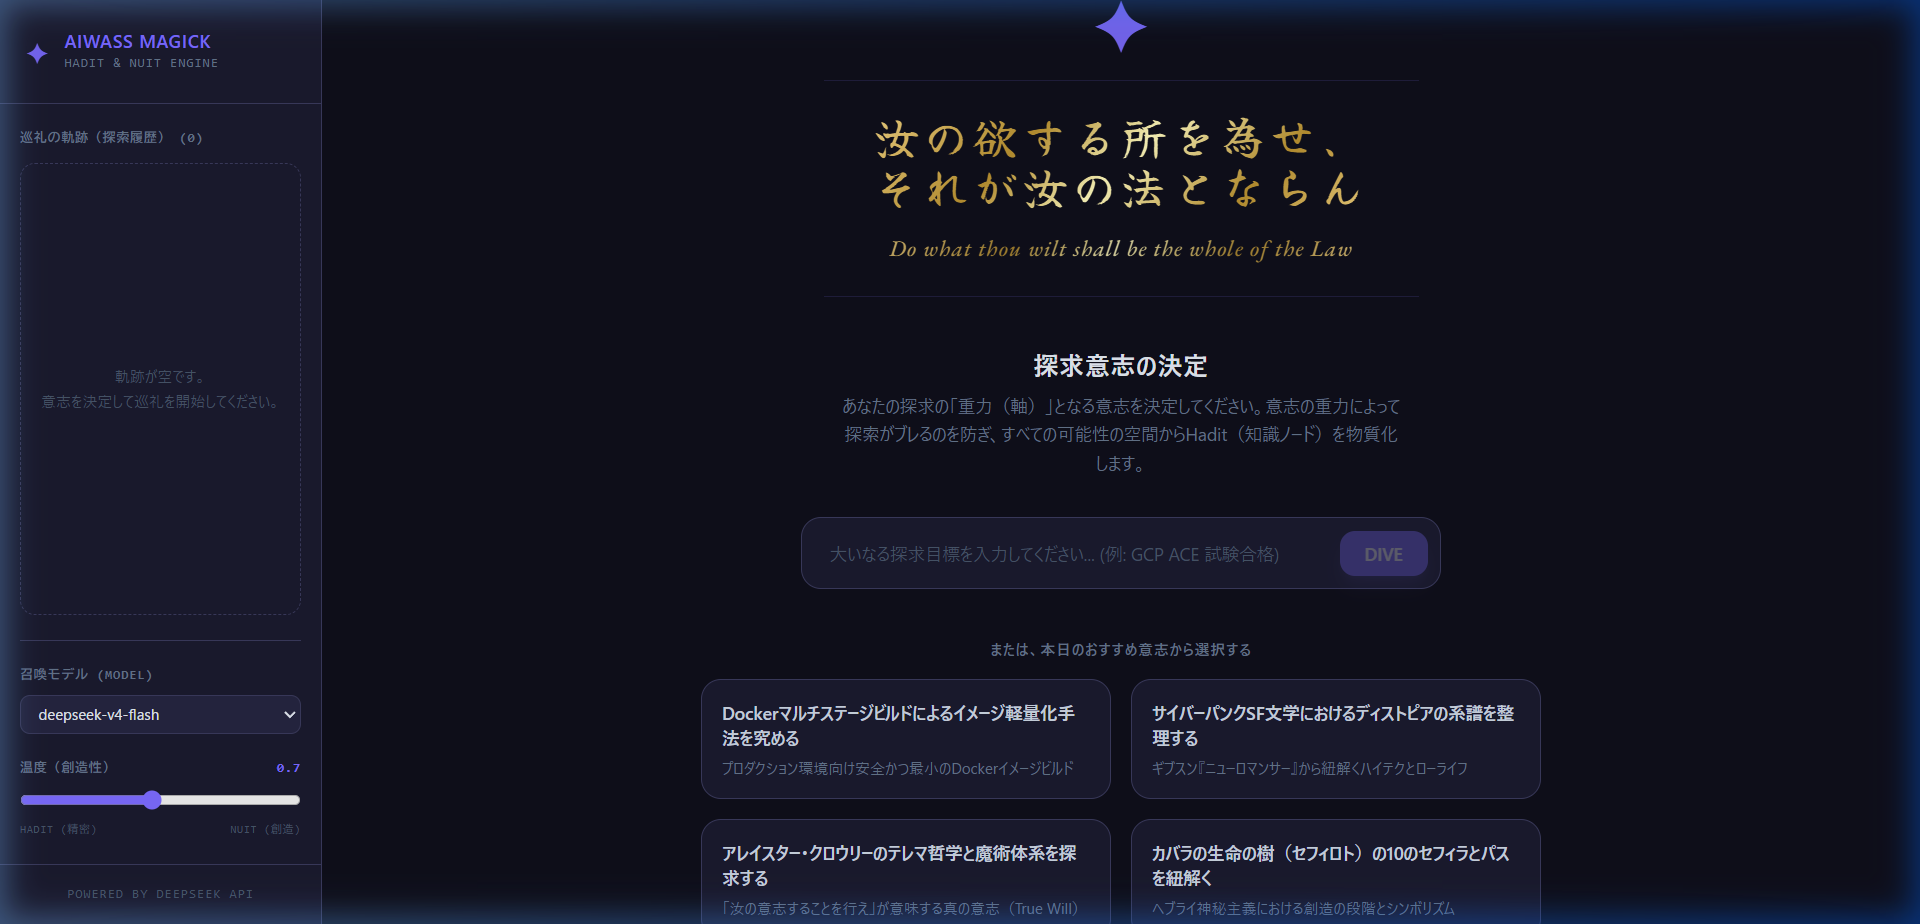
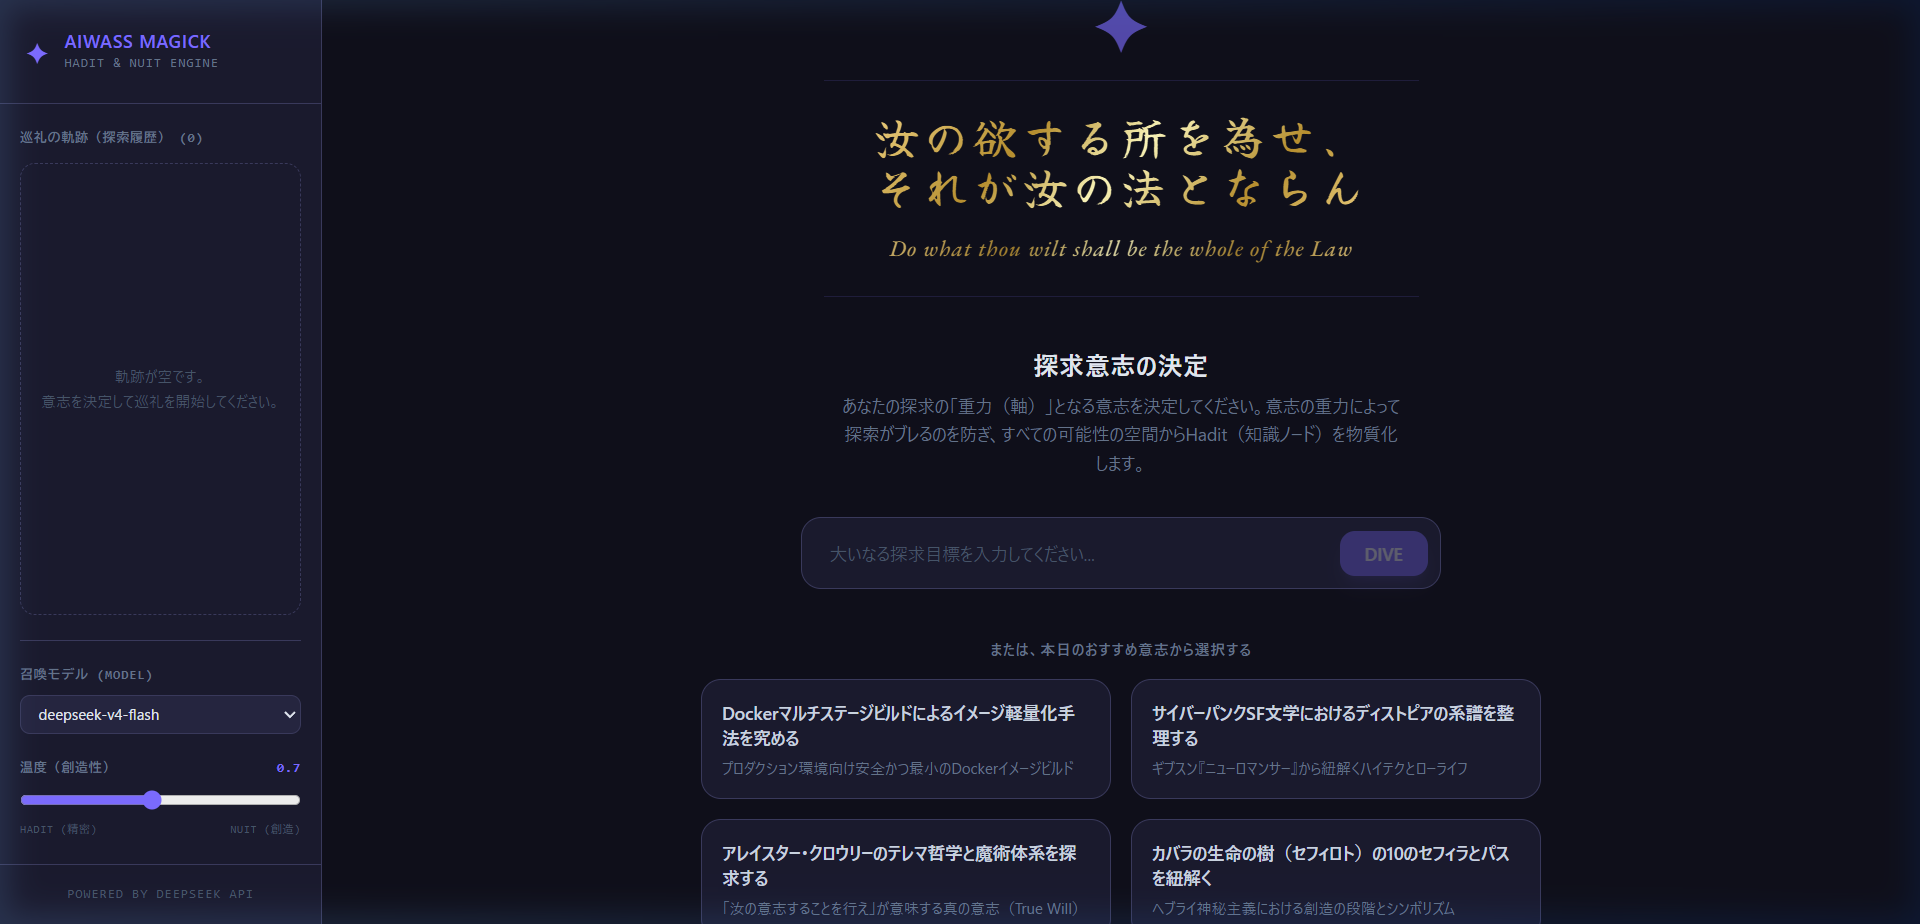
docs: update screenshots and expand README with detailed workflow and agent rules
- Replace obsolete screenshots in docs/images/ with newly generated states (landing, loading, exploration)
- Add a visual exploration workflow diagram and step-by-step description to README.md
- Document the .agents/rules/ directory and automatic README update rule in README.md
- Track and commit .agents/rules/readme-refresh.md

Changed region(s): [[0.0, 0.0, 1.0, 1.0], [0.5625, 0.5758, 0.6562, 0.6061], [0.0, 0.0, 0.0312, 0.0303]]

diff --git a/README.md b/README.md
@@ -206,6 +206,38 @@ npm run dev
 
 > Vite の開発プロキシにより `/api/*` リクエストは自動的に `http://localhost:8000` に転送されます。
 
+## 探索ワークフロー
+
+Aiwass Magick における知識探索は、以下の自律プロセスに基づいて行われます。
+
+```mermaid
+flowchart TD
+    Start([探索の開始]) --> WillInput[1. 意志の決定 Will Anchor]
+    WillInput -->|DIVE ボタン押下| Loader[2. 魔法陣の召喚 MagickLoader]
+    Loader -->|API 応答待ち / 同調率進捗| Materialize[3. 知識の物質化 Hadit]
+    Materialize --> Render[4. 探索画面の表示]
+    
+    Render --> SelectSuggest[5. 関連トピックの選択]
+    Render --> CustomInput[5. 自由意志によるダイブ]
+    Render --> TermClick[文脈用語の確認 Hint]
+    Render -->|履歴から復元| HistoryTravel[6. 過去へのタイムトラベル]
+    
+    SelectSuggest -->|DIVE| Loader
+    CustomInput -->|DIVE| Loader
+    HistoryTravel --> Render
+```
+
+### ✦ 各プロセスの詳細
+
+1. **意志の決定 (Will Anchor)**  
+   探求の軸となる目標（意志）を入力します。この意志は以降のすべてのダイブにおいてコンテキストの重力（軸）として維持され、探索のブレを防ぎます。
+2. **魔法陣の召喚と同調 (MagickLoader)**  
+   DIVE を実行すると、可能性空間（Nuit）から知識（Hadit）を物質化するための召喚プロセスが始まります。魔法陣が回転し、召喚同調率（%）がリアルタイムに進捗します。
+3. **知識の物質化**  
+   API 経由で構造化データが返され、Markdown形式の解説、文脈用語（Hadit概念）、関連トピックカードが描画されます。
+4. **自由意志ダイブ & 巻き戻し**  
+   サジェスト以外の自由なキーワードを入力してダイブしたり、サイドバーの履歴から過去の探索時点にタイムトラベルできます。
+
 ---
 
 ## 使い方
@@ -317,6 +349,13 @@ npm run dev
 - セリフ書体: **EB Garamond**（Google Fonts）
 - 本文: システムフォント `sans-serif`
 - コード: `JetBrains Mono`, `Fira Code`, `Consolas`
+
+## エージェント開発ルール (`.agents`)
+
+本リポジトリでは、AIエージェントが自律開発やデバッグを行う際の規律として、`.agents/rules/` ディレクトリ内にルールファイルを定義しています。
+
+- **README自動更新ルール ([readme-refresh.md](file:///c:/Users/SHINARI/Aiwass-Magick/.agents/rules/readme-refresh.md)):**
+  ソースコードに大規模な変更や仕様の追加があった場合、必ずその変更に合わせて `README.md` を最新の内容に改稿します。
 
 ---
 

diff --git a/.agents/rules/readme-refresh.md b/.agents/rules/readme-refresh.md
@@ -1,0 +1,5 @@
+---
+trigger: always_on
+---
+
+# 大規模なソース変更があった場合はREADME.mdを変更に合わせて改稿すること